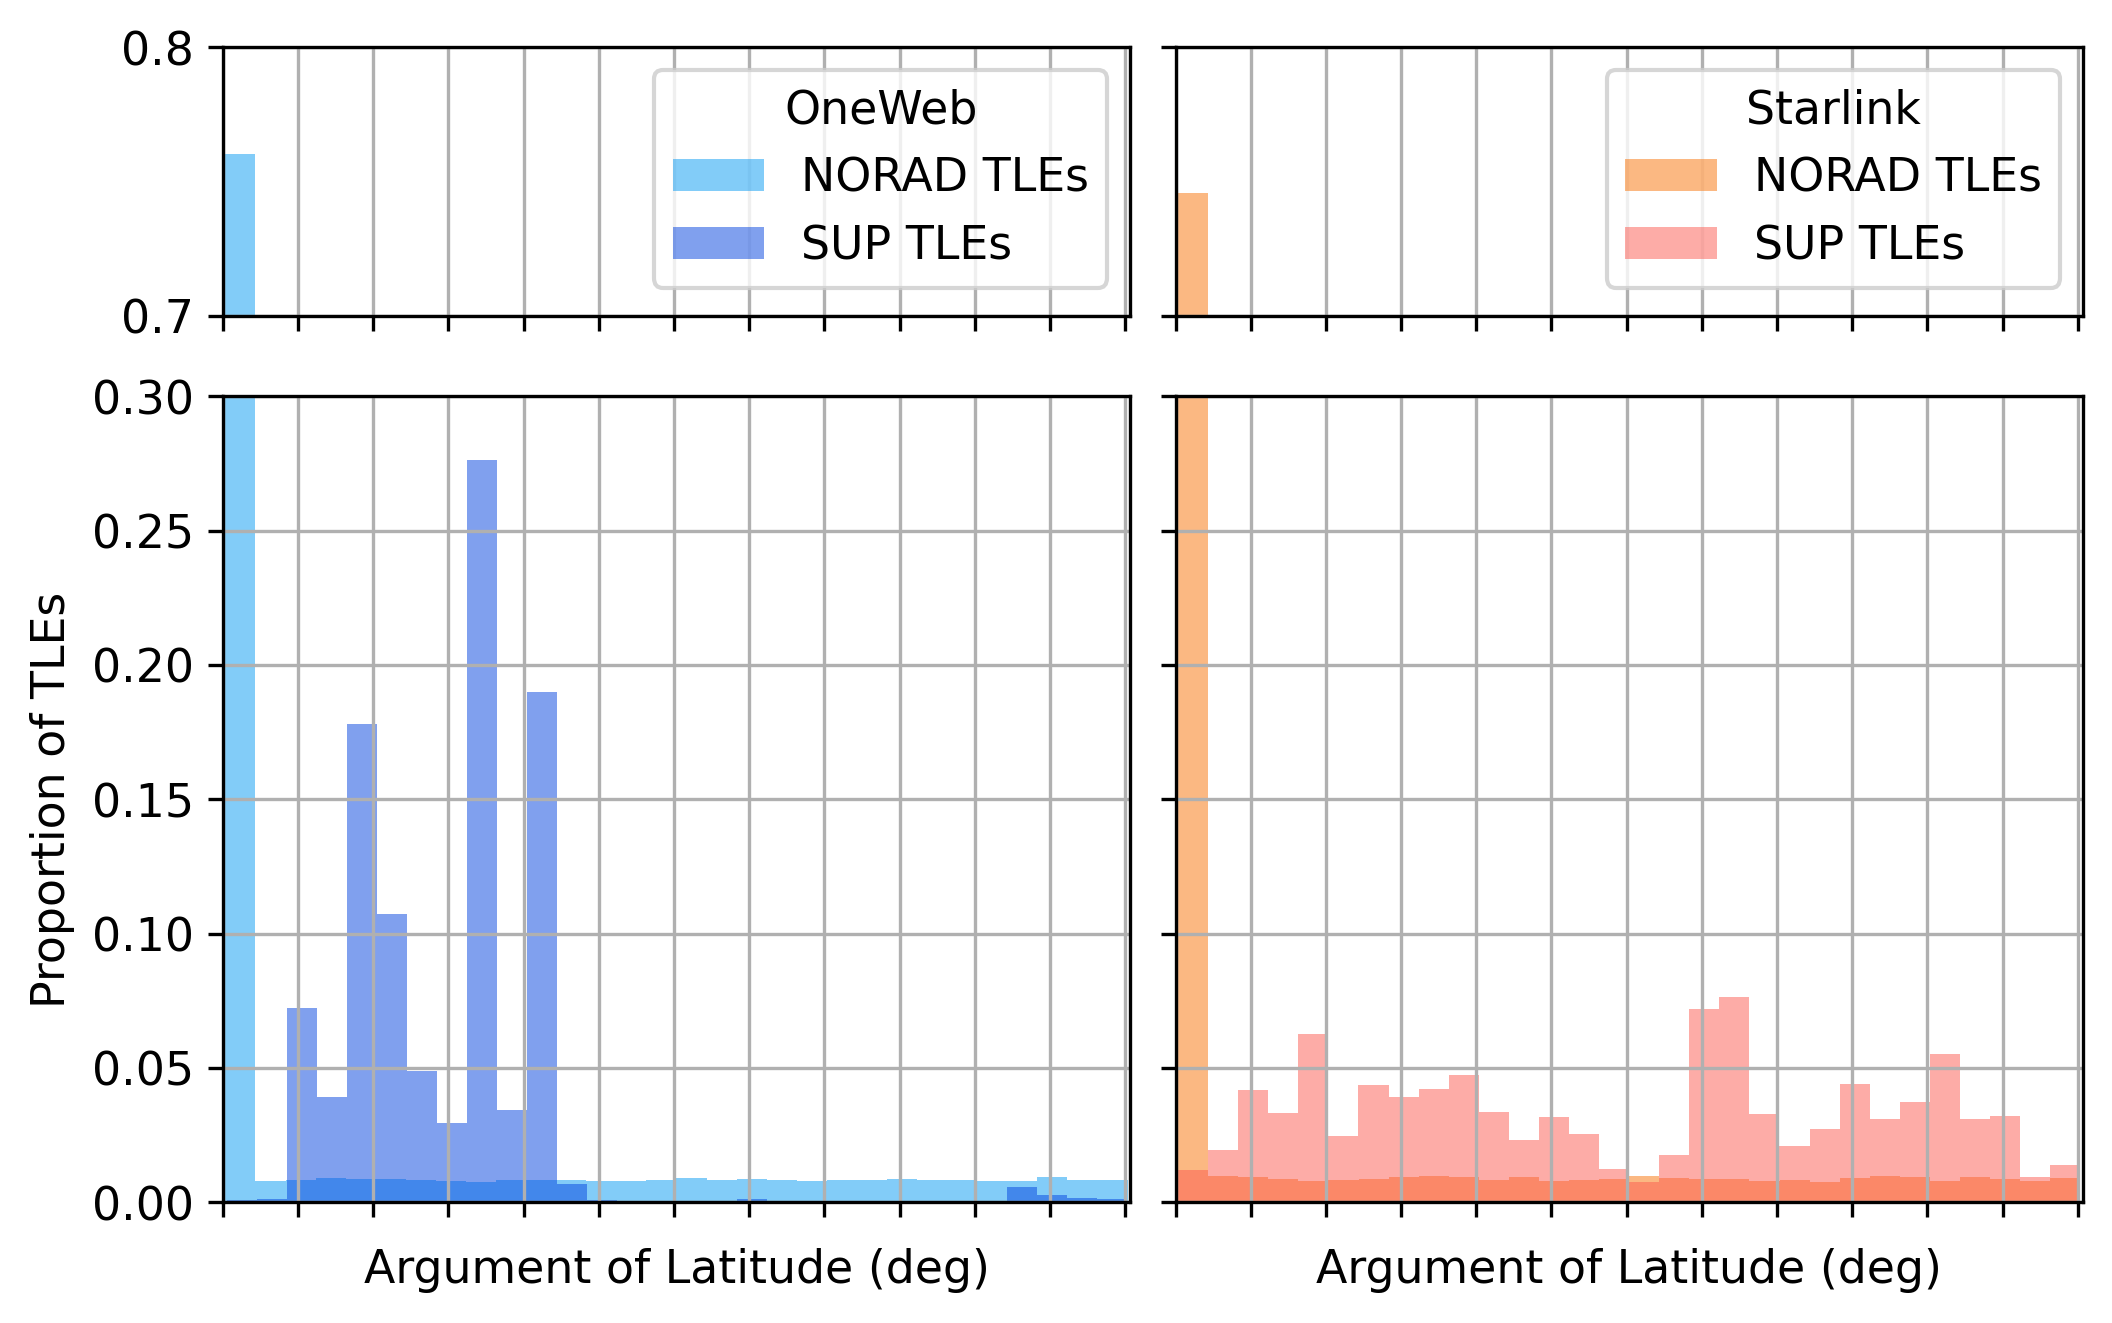
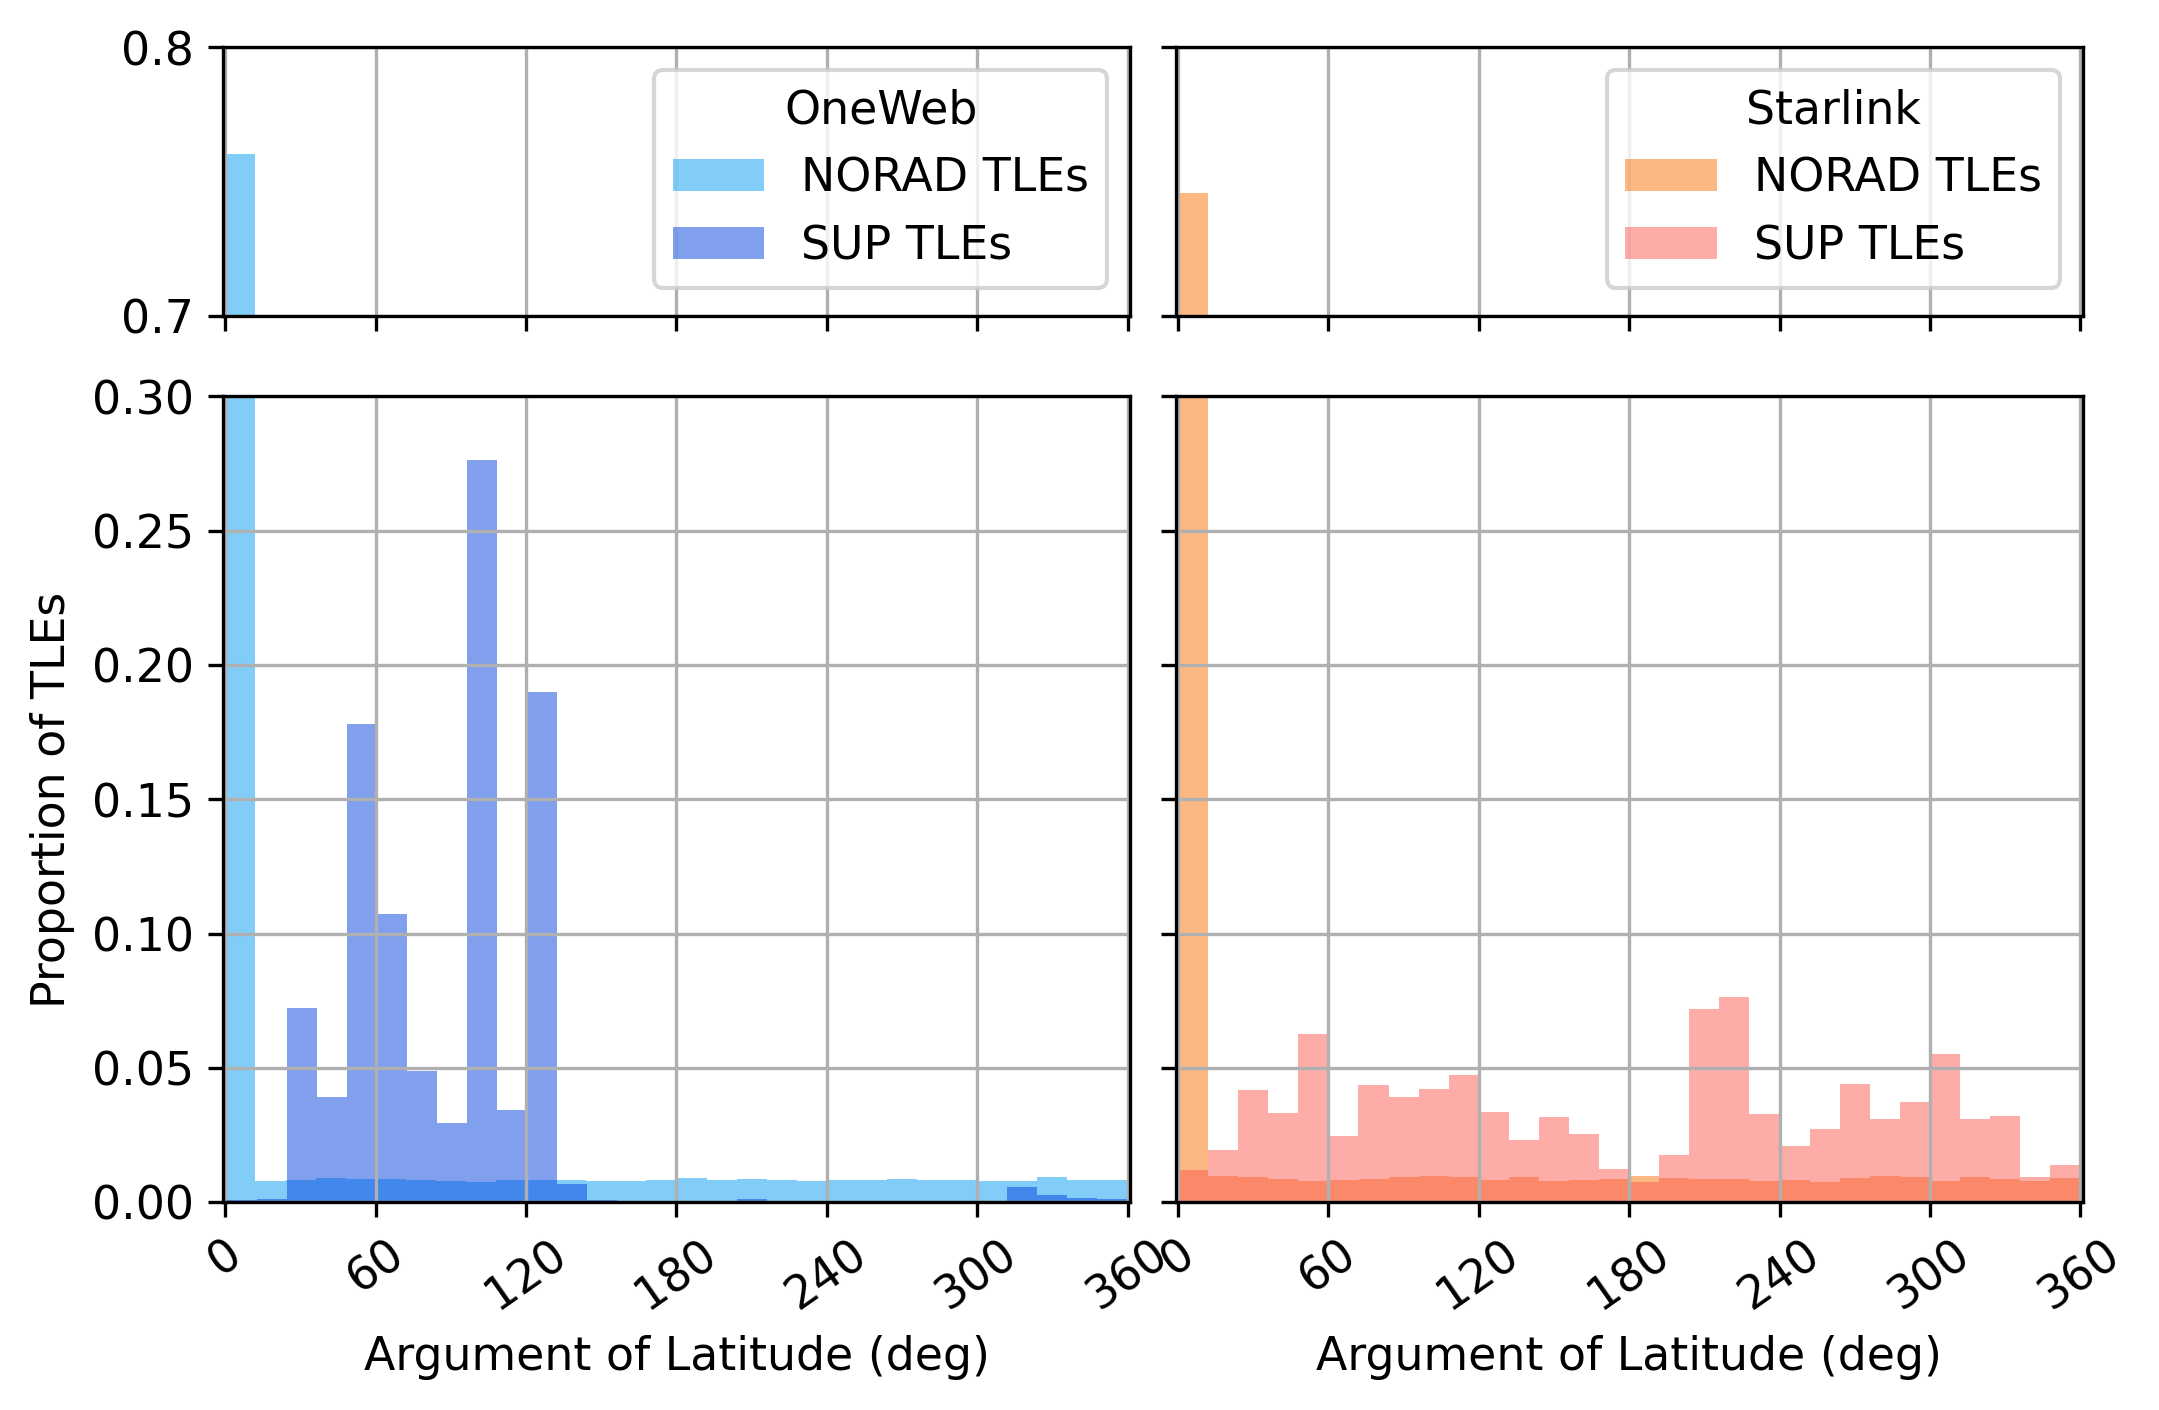
fix axis labelling in two plots

Changed region(s): [[0.0, 0.0, 1.0, 0.9917]]

diff --git a/source/tools/plotting_tools.py b/source/tools/plotting_tools.py
@@ -663,9 +663,9 @@ def plot_map_diffs_smallvals_all(list_of_dfs: List[pd.DataFrame], criteria: int 
 
 def benchmark_plot():
     all_triple_ephems, all_sup_tle_epochs, all_gp_tle_epochs, gp_list = sup_gp_op_benchmark()
-    # slice all_triple_ephems so as to be left with the first 7/8rds of the data in each dataframe
-    for i in range(len(all_triple_ephems)):
-        all_triple_ephems[i] = all_triple_ephems[i][:int(len(all_triple_ephems[i])*(7/8))]
+    # # slice all_triple_ephems so as to be left with the first 7/8rds of the data in each dataframe
+    # for i in range(len(all_triple_ephems)):
+    #     all_triple_ephems[i] = all_triple_ephems[i][:int(len(all_triple_ephems[i])*(7/8))]
 
     #convert all_sup_tle_epochs and all_gp_tle_epochs to mjd_time
     for i in range(len(all_sup_tle_epochs)):
@@ -751,7 +751,7 @@ def benchmark_plot():
             ax[2, i].axvline(x=all_gp_tle_epochs[i][j], color=GP_colour, linestyle='dotted', linewidth=2)
         ax[2, i].set_xticklabels([])
         ax[2, i].grid(True)
-        ax[2, i].set_ylim(-5, 5)
+        ax[2, i].set_ylim(-10, 10)
         # set x-axis limits to be the max and min of the mjd_time column
         ax[2, i].set_xlim(min(all_triple_ephems[i]['mjd_time']), max(all_triple_ephems[i]['mjd_time']))
 
@@ -779,9 +779,9 @@ def benchmark_plot():
         # ax[3, i].text(0.45, 0.9, textstr, transform=ax[3, i].transAxes, fontsize=fonts, verticalalignment='top', bbox=props)
         ax[3, i].set_title(textstr, fontsize=fonts)
         ax[3, i].grid(True)
-        ax[3, i].set_ylim(0, 5)
+        ax[3, i].set_ylim(0, 8)
         # set ticks every 2.5 on the y axis
-        ax[3, i].yaxis.set_ticks(np.arange(0, 5.1, 2.5))
+        ax[3, i].yaxis.set_ticks(np.arange(0, 10.1, 2.5))
         # set x-axis limits to be the max and min of the mjd_time column
         ax[3, i].set_xlim(min(all_triple_ephems[i]['mjd_time']), max(all_triple_ephems[i]['mjd_time']))
         # include a common x label for the bottom row make it not scientific notation
@@ -848,7 +848,9 @@ def plot_arglat_analysis(show=False):
         # Additional plot styling
     for ax in axs.flat:
         ax.set_xlim(-1, 361)
-        ax.set_xticks(np.arange(-1, 361, 30))
+        ax.set_xticks(np.arange(0, 361, 60))
+        # make the ticks diagonal so they don't overlap
+        ax.tick_params(axis='x', rotation=35)
         ax.grid()
         
     for ax in axs[1,:]:
@@ -864,9 +866,9 @@ def plot_arglat_analysis(show=False):
     axs[0,0].legend(loc='upper right', title='OneWeb')
     axs[0,1].legend(loc='upper right', title='Starlink')
 
-    # Removing xticklabels for the upper plots
-    for ax in axs[0, :]:
-        ax.set_xticklabels([])
+    # # Removing xticklabels for the upper plots
+    # for ax in axs[0, :]:
+    #     ax.set_xticklabels([])
 
     # Removing yticklabels for the second column plots
     for ax in axs[:, 1]:

diff --git a/source/tools/analysis_tools.py b/source/tools/analysis_tools.py
@@ -508,6 +508,9 @@ def find_files_sup_gp_op(folder_path = 'external/ephem_TLE_compare'):
     return sup_list, gp_list, ephem_list
 
 def sup_gp_op_benchmark():
+
+    # 57.3494% age difference between sup and gp TLEs against operator ephem
+
     sup_list, gp_list, ephem_list = find_files_sup_gp_op()
         
 #     # now going through each spacecraft
@@ -695,10 +698,15 @@ def TLE_arglat_dict(selected_satellites: str='external/selected_satellites.json'
                         for i in range(len(TLEs)): #for each TLE
                             tle_dict = twoLE_parse(TLEs[i]) #parse the TLE
                             kep_elem = tle_convert(tle_dict)  #convert the TLE to Keplerian elements
-                            # argp is in radians, true_anomaly is in degrees
+                            # argp is in radians, true_anomaly is in radians now
                             argument_of_latitude = (kep_elem['arg_p'] + np.deg2rad(kep_elem['true_anomaly'])) % (2*np.pi) #calculate the argument of latitude
-                            arg_lat = argument_of_latitude * 180/np.pi #convert the argument of latitude to degrees
+                            if argument_of_latitude > 2 * np.pi:
+                                print('arglat > 2pi:', argument_of_latitude)
+                            arg_lat = (argument_of_latitude * 180/np.pi) #convert the argument of latitude to degrees
                             sc_TLE_arglats.append(arg_lat) #append to the list of TLE arglats for that NORAD ID
                         TLE_arglat_dict[NORAD] = sc_TLE_arglats #add the list of TLE arglats to the dictionary for that NORAD ID
         const_TLE_arglat_dict[constellation] = TLE_arglat_dict #add the dictionary of NORAD IDs and TLE arglats to the dictionary for each constellation
     return const_TLE_arglat_dict #return the dictionary of dictionaries for each constellation
+
+
+

diff --git a/source/main.py b/source/main.py
@@ -60,13 +60,21 @@ def main ():
     # plot_map_diffs_smallvals_all(all_dfs, show=False, criteria=1) #errors within 1 SD from the mean
     
     # Histogram of the argument of latitude at which each TLE is produced for all available NORAD IDs as a function of source
-    plot_arglat_analysis()
+    # plot_arglat_analysis()
 
     # Benchmarking the NORAD, Suppelemental, and Operator ephemerides for 3 Starlink satellites. Uses the data in external/ephem_TLE_compare
-    # benchmark_plot()
+    benchmark_plot() 
+
+    # #TODO: axis formatting for benchmark plot
+    # TODO: TLE age analysis
+    # TODO if time: TLE age vs error
+    # TODO if time: H/C/L correlation
+    # TODO if time: Solar Flux vs error
+    # test_argument_of_latitude()
+
 
 if __name__ == "__main__":
-    main()
+    # main()
     
 #   Unhash to run the profiler
-    # cProfile.run('main()')
+    cProfile.run('main()')
